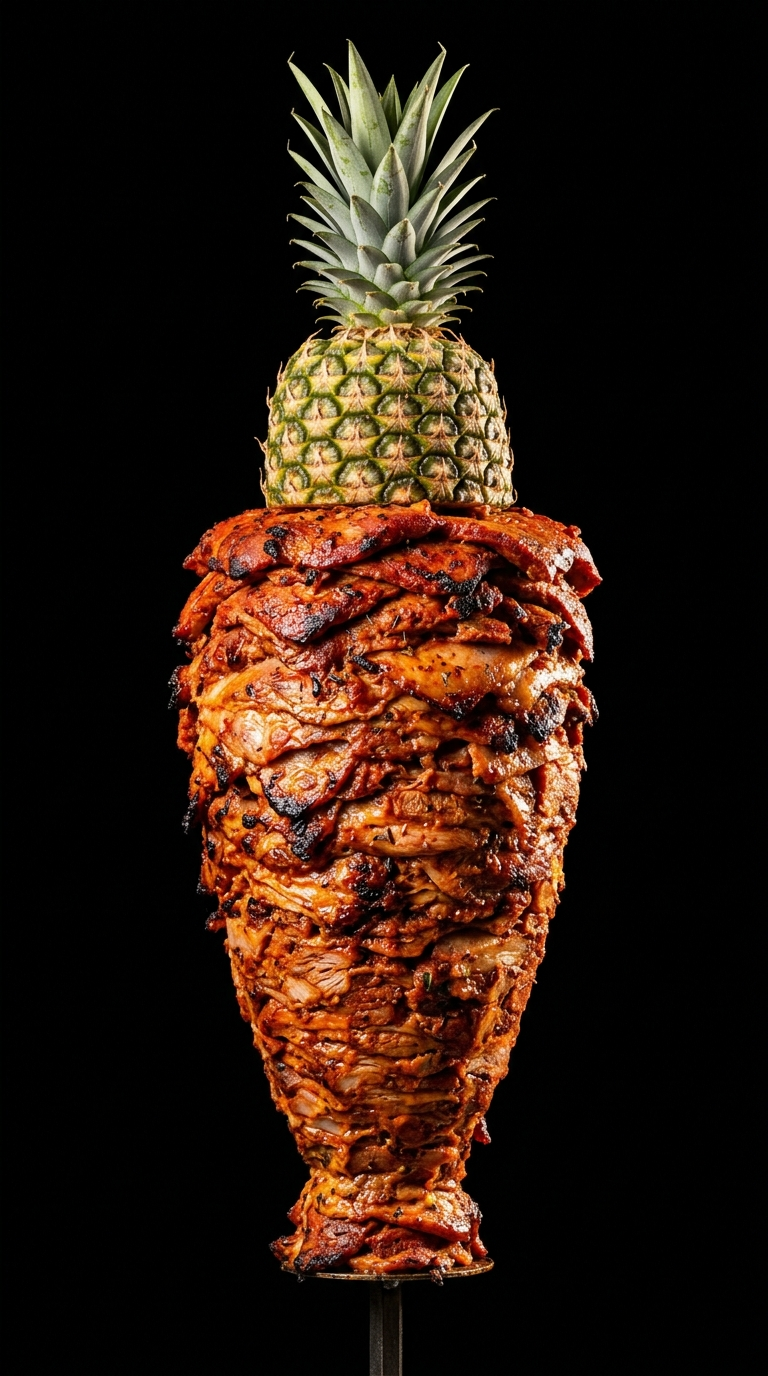
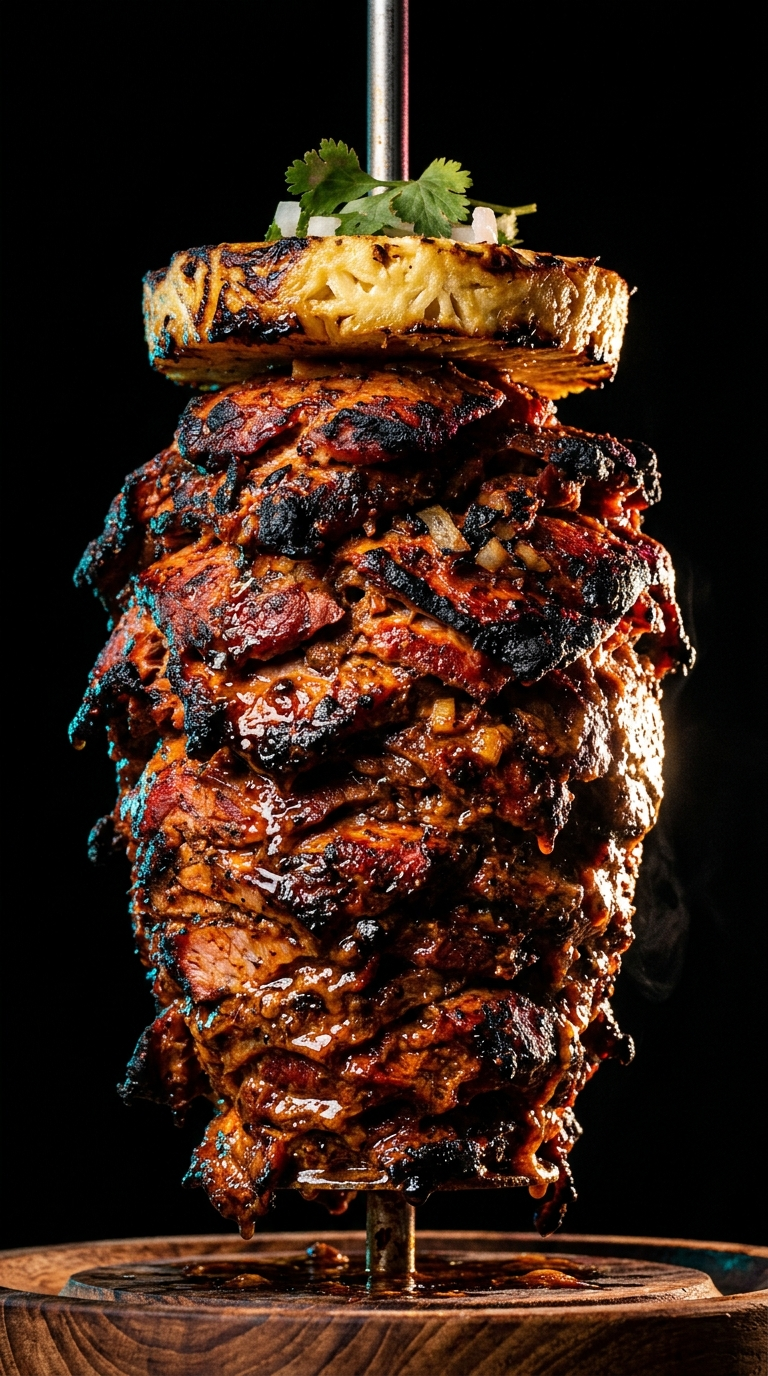
feat(inicio-ui): Nueva imagen trompo brutal hiper-realista

diff --git a/ReactInicio/src/components/HeroTrompo.css b/ReactInicio/src/components/HeroTrompo.css
@@ -65,6 +65,11 @@
   width: 100%;
   height: 100%;
   transform-origin: center;
+  /* Elimina el borde rectangular del alpha para que el drop-shadow no lo detecte */
+  -webkit-mask-image: radial-gradient(ellipse 70% 85% at 50% 50%, black 50%, transparent 75%);
+  mask-image: radial-gradient(ellipse 70% 85% at 50% 50%, black 50%, transparent 75%);
+  /* Brillo intenso de las grietas desgarradas */
+  filter: drop-shadow(0 0 10px rgba(255, 60, 0, 0.7)) drop-shadow(0 0 25px rgba(255, 0, 0, 0.4));
 }
 
 .slice-img {
@@ -73,7 +78,7 @@
   width: 100%;
   height: 100%;
   object-fit: contain;
-  mix-blend-mode: screen; /* Esto ELIMINA los pixeles negros de tu JPG mágicamente */
+  mix-blend-mode: screen; /* Elimina restos de negro */
 }
 
 /* Base styling */
@@ -81,12 +86,37 @@
   filter: saturate(1.3) contrast(1.15);
 }
 
-/* ─── Cortes Brutales con Ángulos ─── */
-.slice-1 .slice-img { clip-path: polygon(0 0, 100% 0, 100% 22%, 0 18%); }
-.slice-2 .slice-img { clip-path: polygon(0 18%, 100% 22%, 100% 45%, 0 40%); }
-.slice-3 .slice-img { clip-path: polygon(0 40%, 100% 45%, 100% 62%, 0 65%); }
-.slice-4 .slice-img { clip-path: polygon(0 65%, 100% 62%, 100% 85%, 0 82%); }
-.slice-5 .slice-img { clip-path: polygon(0 82%, 100% 85%, 100% 100%, 0 100%); }
+/* ─── Cortes Orgánicos (Carne Desgarrada) ─── */
+.slice-1 .slice-img { 
+  clip-path: polygon(
+    0% 0%, 100% 0%, 
+    100% 20%, 95% 18%, 90% 22%, 85% 19%, 80% 23%, 75% 18%, 70% 21%, 65% 19%, 60% 24%, 55% 18%, 50% 22%, 45% 19%, 40% 23%, 35% 18%, 30% 21%, 25% 19%, 20% 23%, 15% 18%, 10% 22%, 5% 19%, 0% 21%
+  ); 
+}
+.slice-2 .slice-img { 
+  clip-path: polygon(
+    0% 21%, 5% 19%, 10% 22%, 15% 18%, 20% 23%, 25% 19%, 30% 21%, 35% 18%, 40% 23%, 45% 19%, 50% 22%, 55% 18%, 60% 24%, 65% 19%, 70% 21%, 75% 18%, 80% 23%, 85% 19%, 90% 22%, 95% 18%, 100% 20%,
+    100% 40%, 95% 42%, 90% 38%, 85% 41%, 80% 37%, 75% 42%, 70% 39%, 65% 41%, 60% 36%, 55% 42%, 50% 38%, 45% 41%, 40% 37%, 35% 42%, 30% 39%, 25% 41%, 20% 37%, 15% 42%, 10% 38%, 5% 41%, 0% 39%
+  ); 
+}
+.slice-3 .slice-img { 
+  clip-path: polygon(
+    0% 39%, 5% 41%, 10% 38%, 15% 42%, 20% 37%, 25% 41%, 30% 39%, 35% 42%, 40% 37%, 45% 41%, 50% 38%, 55% 42%, 60% 36%, 65% 41%, 70% 39%, 75% 42%, 80% 37%, 85% 41%, 90% 38%, 95% 42%, 100% 40%,
+    100% 62%, 95% 60%, 90% 64%, 85% 61%, 80% 65%, 75% 60%, 70% 63%, 65% 61%, 60% 66%, 55% 60%, 50% 64%, 45% 61%, 40% 65%, 35% 60%, 30% 63%, 25% 61%, 20% 65%, 15% 60%, 10% 64%, 5% 61%, 0% 63%
+  ); 
+}
+.slice-4 .slice-img { 
+  clip-path: polygon(
+    0% 63%, 5% 61%, 10% 64%, 15% 60%, 20% 65%, 25% 61%, 30% 63%, 35% 60%, 40% 65%, 45% 61%, 50% 64%, 55% 60%, 60% 66%, 65% 61%, 70% 63%, 75% 60%, 80% 65%, 85% 61%, 90% 64%, 95% 60%, 100% 62%,
+    100% 82%, 95% 84%, 90% 80%, 85% 83%, 80% 79%, 75% 84%, 70% 81%, 65% 83%, 60% 78%, 55% 84%, 50% 80%, 45% 83%, 40% 79%, 35% 84%, 30% 81%, 25% 83%, 20% 79%, 15% 84%, 10% 80%, 5% 83%, 0% 81%
+  ); 
+}
+.slice-5 .slice-img { 
+  clip-path: polygon(
+    0% 81%, 5% 83%, 10% 80%, 15% 84%, 20% 79%, 25% 83%, 30% 81%, 35% 84%, 40% 79%, 45% 83%, 50% 80%, 55% 84%, 60% 78%, 65% 83%, 70% 81%, 75% 84%, 80% 79%, 85% 83%, 90% 80%, 95% 84%, 100% 82%,
+    100% 100%, 0% 100%
+  ); 
+}
 
 
 /* ─── Efecto Aberración Cromática Glitch ─── */
